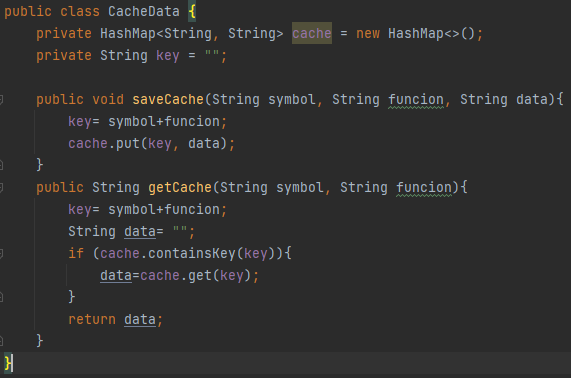
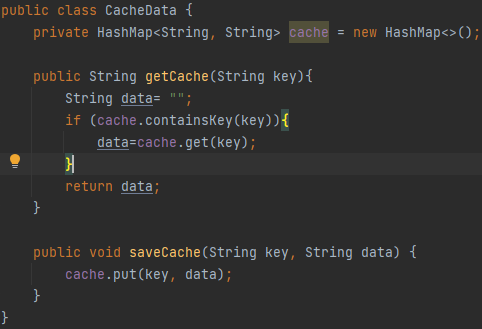
modificando cache

diff --git a/src/main/java/edu/escuelaing/arep/App.java b/src/main/java/edu/escuelaing/arep/App.java
@@ -24,18 +24,19 @@ public class App {
         res.type("application/json");
         String stock = req.params(":symbol");
         String function = req.params(":function");
+        String key = stock+function;
         String response = "None";
         HttpStockService stockService = CurrentServiceInstance.getInstance().getService();
         
 
         if(stock != null && stock != ""){
-            String data = cache.getCache(stock, function);
+            String data = cache.getCache(key);
             if(data.equals("")){
                 stockService.setUrl(function);
                 stockService.setStock(stock);
                 try {
                     response = stockService.getXData();
-                    cache.saveCache(stock, function, response);
+                    cache.saveCache(key, response);
                 }
                 catch (IOException ex){
                     Logger.getLogger(App.class.getName()).log(Level.SEVERE, null, ex);

diff --git a/src/main/java/edu/escuelaing/arep/CacheData.java b/src/main/java/edu/escuelaing/arep/CacheData.java
@@ -4,18 +4,16 @@ import java.util.HashMap;
 
 public class CacheData {
     private HashMap<String, String> cache = new HashMap<>();
-    private String key = "";
 
-    public void saveCache(String symbol, String funcion, String data){
-        key= symbol+funcion;
-        cache.put(key, data);
-    }
-    public String getCache(String symbol, String funcion){
-        key= symbol+funcion;
+    public String getCache(String key){
         String data= "";
         if (cache.containsKey(key)){
             data=cache.get(key);
         }
         return data;
+    }
+
+    public void saveCache(String key, String data) {
+        cache.put(key, data);
     }
 }
